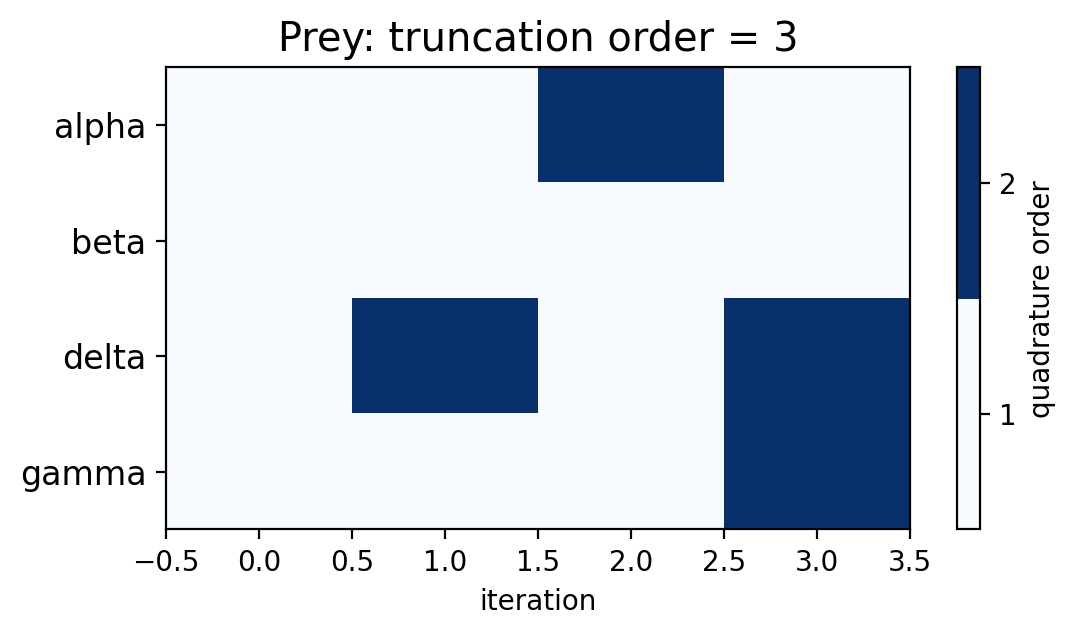
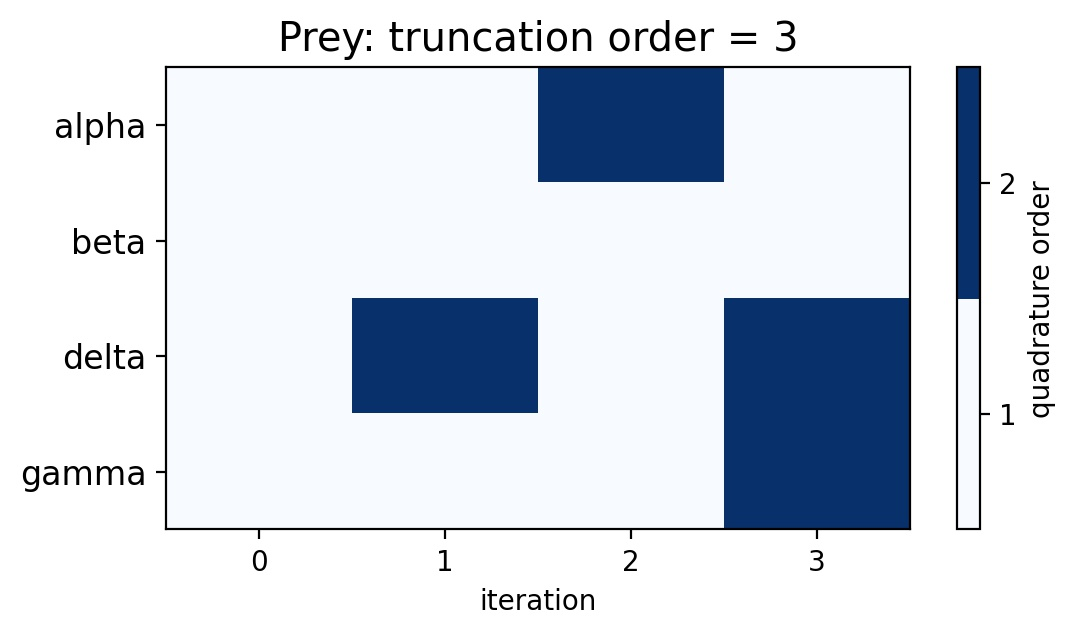
plots

diff --git a/adaptive_solver/scripts/draft_plotter.py b/adaptive_solver/scripts/draft_plotter.py
@@ -58,7 +58,11 @@ def plot_tile(old,title,order,path):
     
     cmap = plt.get_cmap('Blues', M)
     
-    plt.imshow(np.array(old).T, cmap=cmap, aspect='auto')
+    img = ax.imshow(np.array(old).T, cmap=cmap, aspect='auto')
+    t = np.arange(0,len(old))
+    ax.set_xticks(t)
+    
+    
     
     norm = mpl.colors.Normalize(vmin=0, vmax=M-1)
     
@@ -169,11 +173,11 @@ def plot_poly(polynomials,sequence, path, order):
 
 if __name__ == "__main__":
 
-    root = r"C:\Users\jeffr\OneDrive\Documents\GitHub\new\adaptive_solver\data\Experimental_data_lotka_2\prey "
+    root = r"C:\Users\jeffr\OneDrive\Documents\GitHub\new\adaptive_solver\data\Experimental_data_lotka_2\prey"
     
     root = os.path.abspath(root)
     
-    order = 3
+    order = 6
     
     df = pd.read_csv(root + f'\\run_file_{order}.csv')
     
@@ -181,17 +185,19 @@ if __name__ == "__main__":
     
     title = f'Prey: truncation order = {order}'
     
+    path = '.'
+    
     '''Polynomials'''
     
-    polynomials = list(numpoly.load(root + f'\\poly_{order}.npz').values())
+    # polynomials = list(numpoly.load(root + f'\\poly_{order}.npz').values())
     
     
-    sequence = [0,1,4,5]
+    # sequence = [0,1,4,5]
     
-    plot_poly(polynomials,sequence,path=root,order=order)
+    # plot_poly(polynomials,sequence,path=root,order=order)
     
     # print(old)
-    # plot_tile(old,title,order,path)
+    plot_tile(old,title,order,path=path)
     # plot_hist(old,order,path)
     
     
